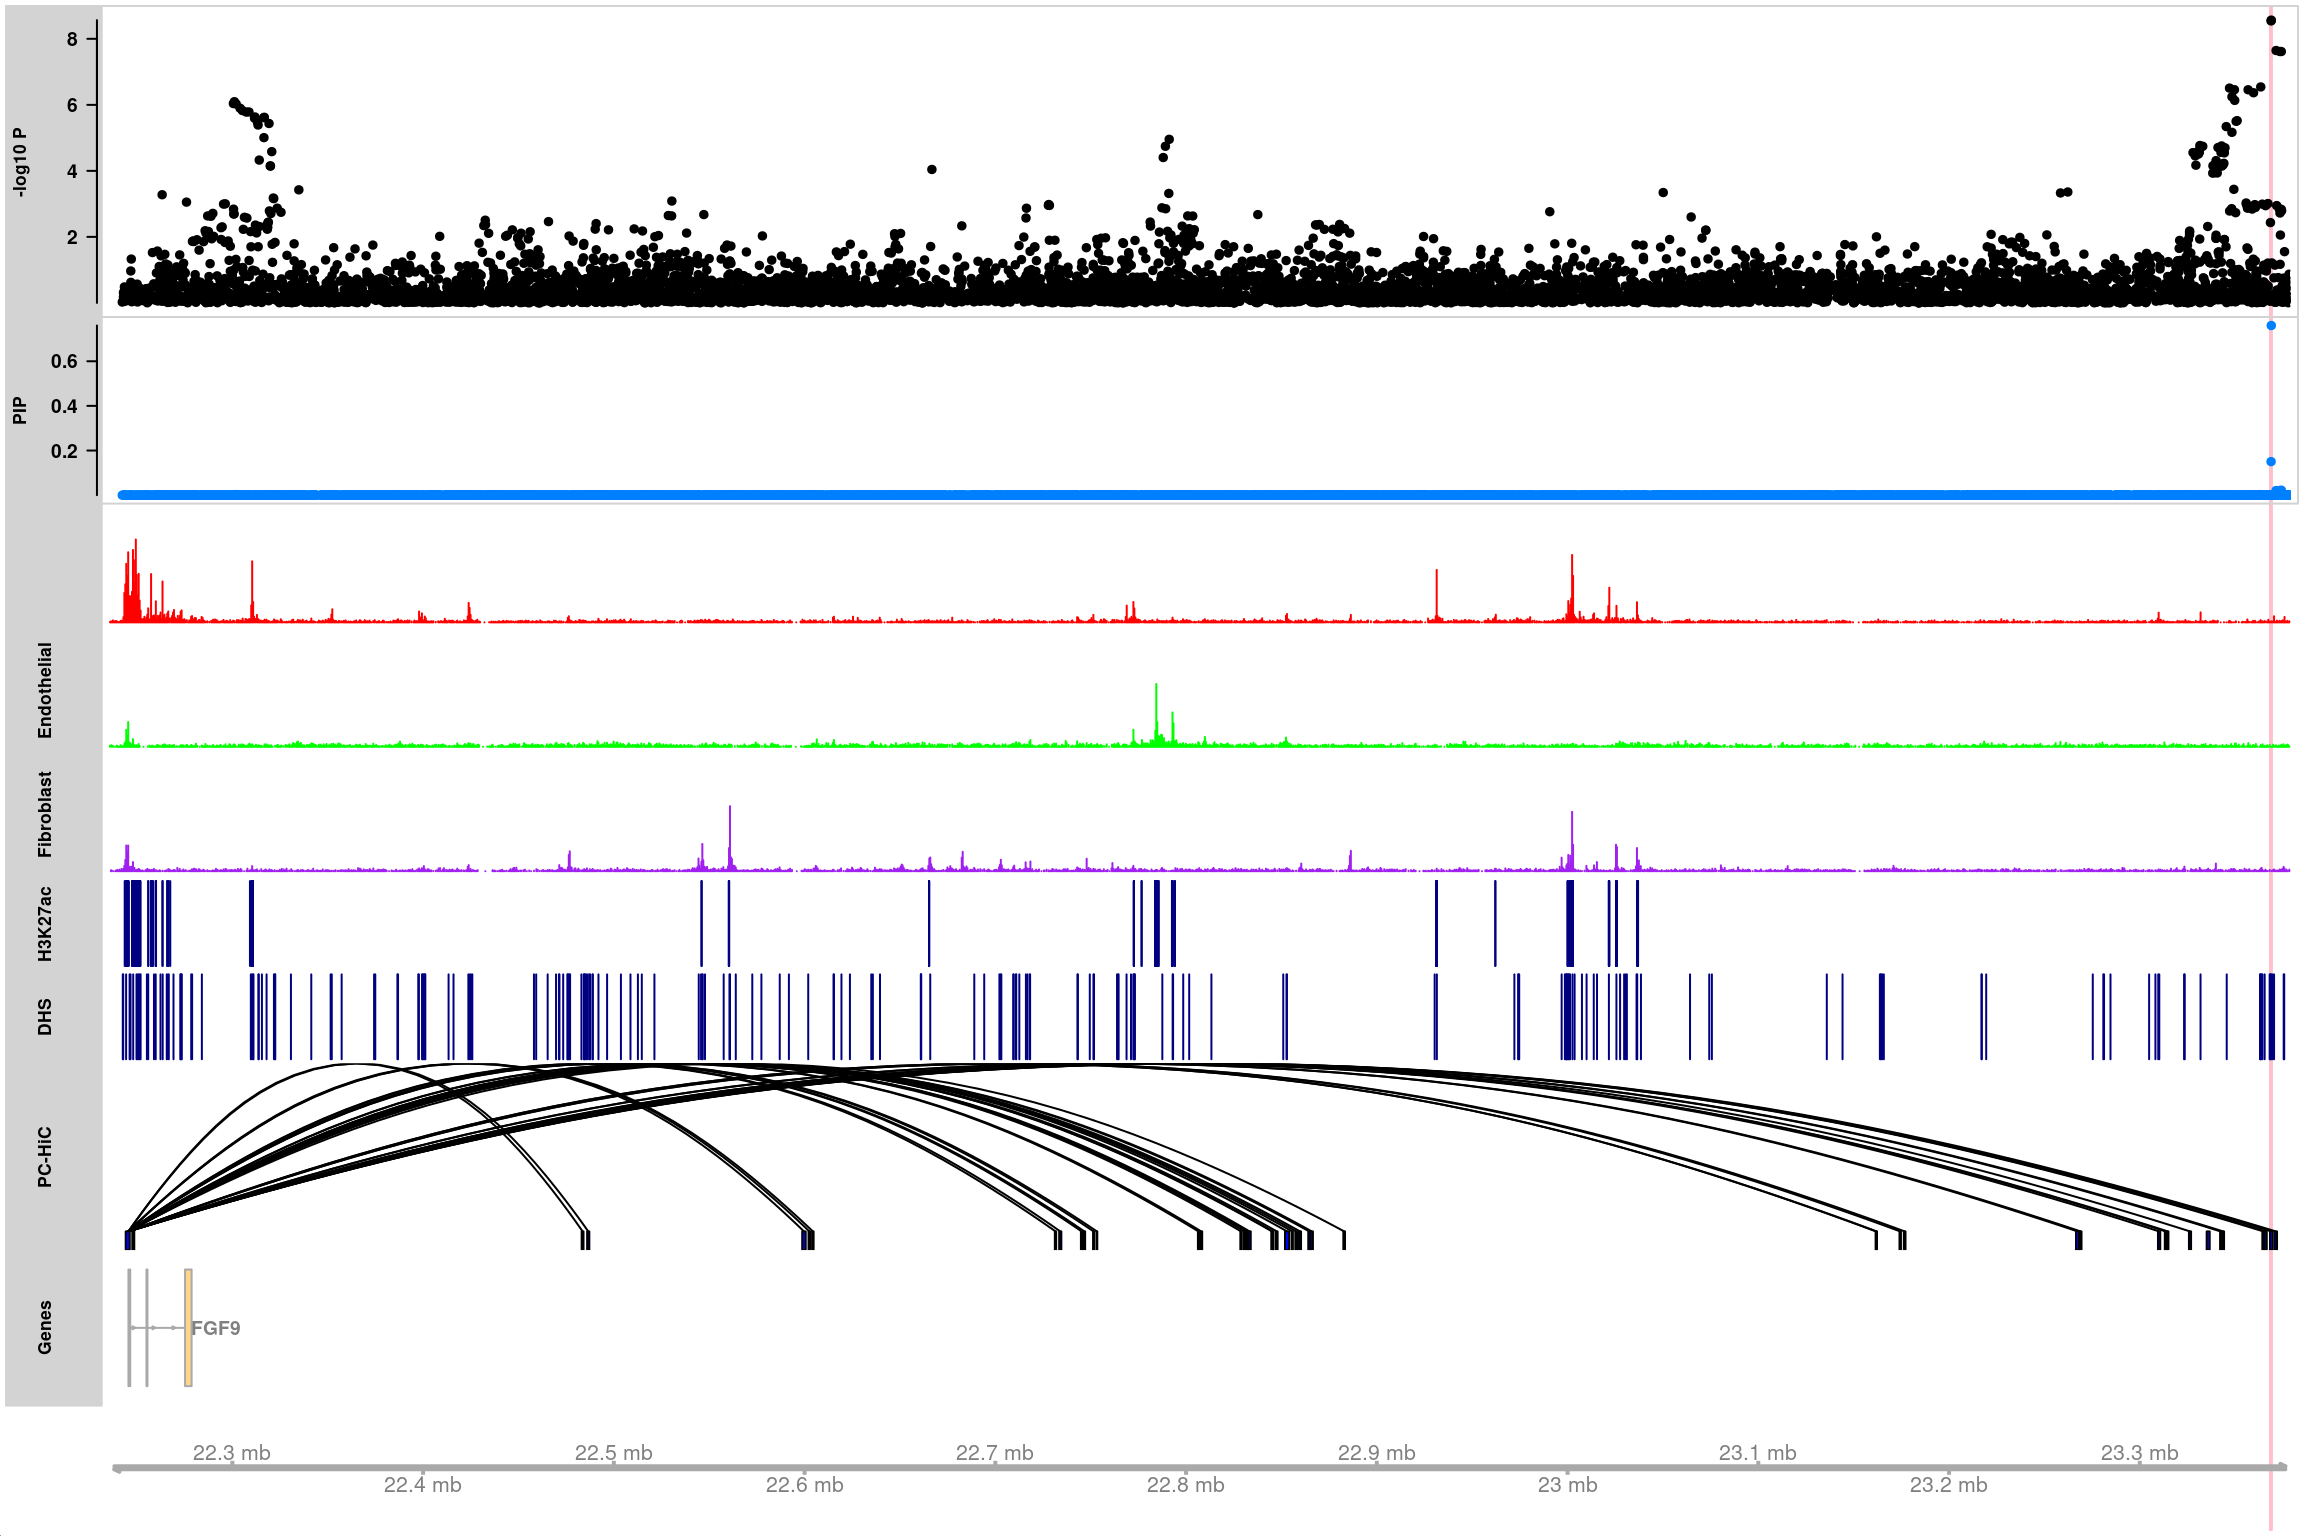
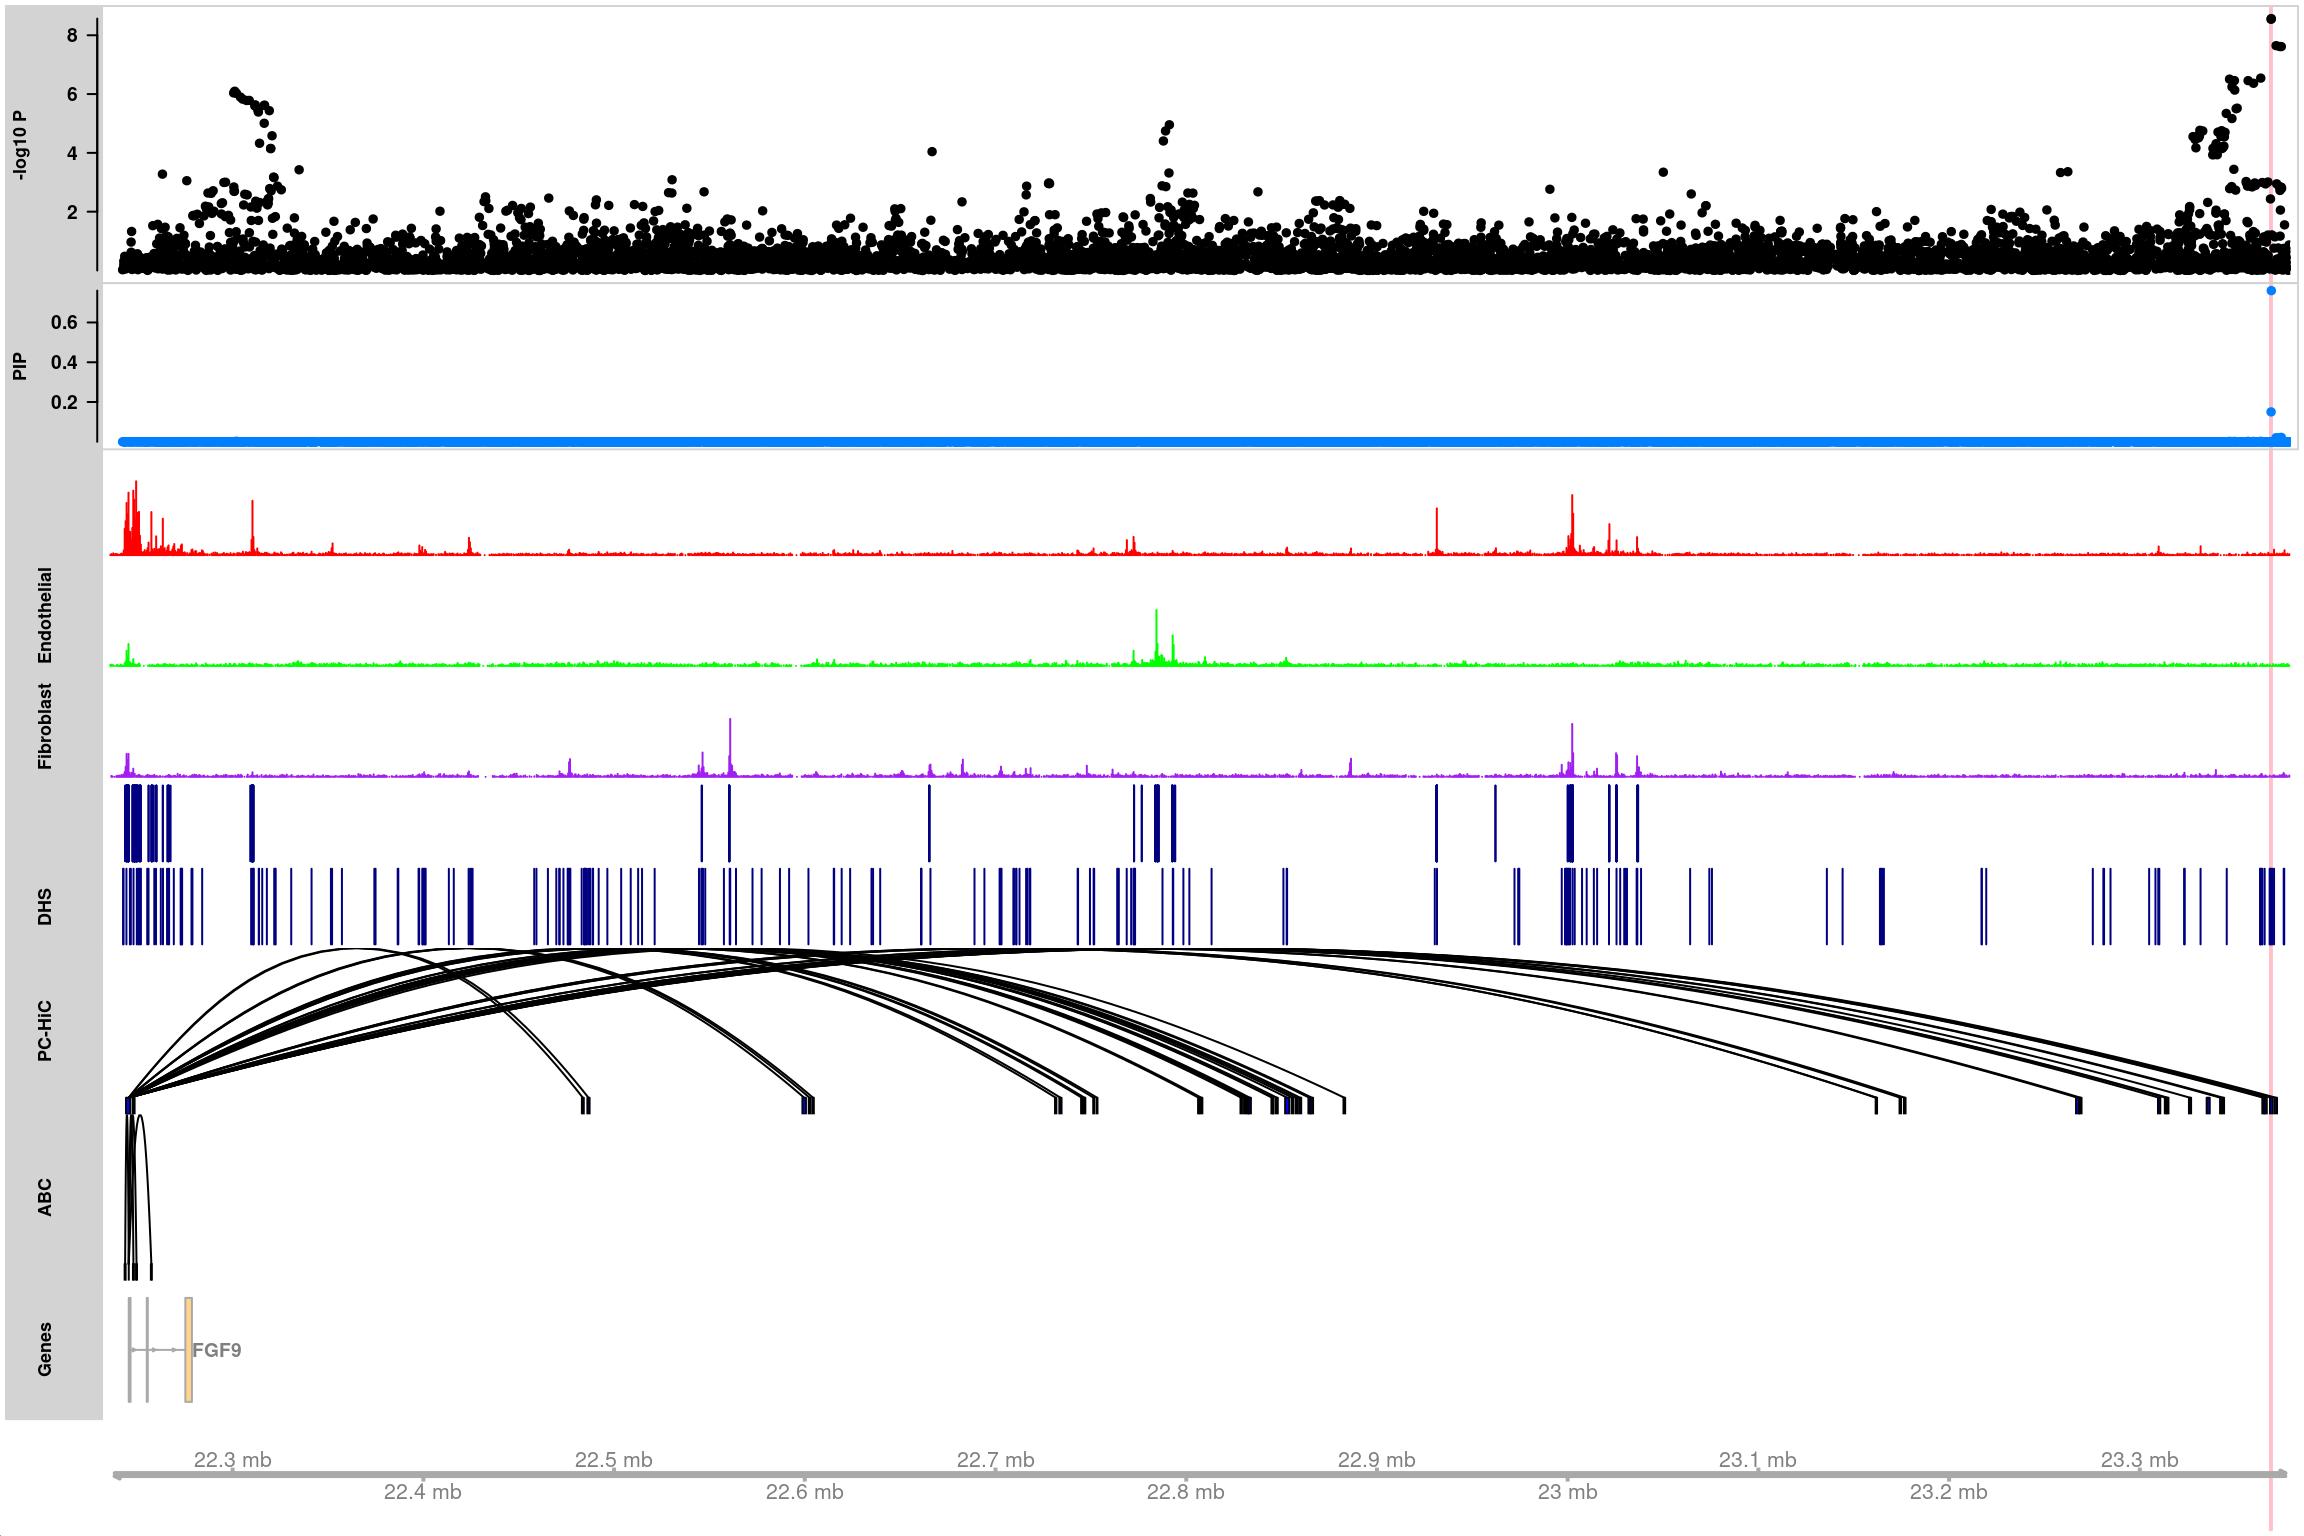
Build site.

diff --git a/docs/make_mapgen_trackplots.html b/docs/make_mapgen_trackplots.html
@@ -523,15 +523,15 @@ project makes it easier to run your code on other machines.</p>
 <div class="panel panel-default">
 <div class="panel-heading">
 <p class="panel-title">
-<a data-toggle="collapse" data-parent="#workflowr-checks" href="#strongRepositoryversionstrongahrefhttpsgithubcomkevinlkxanalysispipelinestree2b0f109d0555c92eb8adb643ebf5d38ed99f5d88targetblank2b0f109a">
+<a data-toggle="collapse" data-parent="#workflowr-checks" href="#strongRepositoryversionstrongahrefhttpsgithubcomkevinlkxanalysispipelinestreeadbc5ca0e412b3b281ca1e4d1467959c23294899targetblankadbc5caa">
 <span class="glyphicon glyphicon-ok text-success"
 aria-hidden="true"></span> <strong>Repository version:</strong>
-<a href="https://github.com/kevinlkx/analysis_pipelines/tree/2b0f109d0555c92eb8adb643ebf5d38ed99f5d88" target="_blank">2b0f109</a>
+<a href="https://github.com/kevinlkx/analysis_pipelines/tree/adbc5ca0e412b3b281ca1e4d1467959c23294899" target="_blank">adbc5ca</a>
 </a>
 </p>
 </div>
 <div
[2 lines of base64/hex data omitted]
 class="panel-collapse collapse">
 <div class="panel-body">
 <p>
@@ -541,7 +541,7 @@ reproducibility.
 </p>
 <p>
 The results in this page were generated with repository version
-<a href="https://github.com/kevinlkx/analysis_pipelines/tree/2b0f109d0555c92eb8adb643ebf5d38ed99f5d88" target="_blank">2b0f109</a>.
+<a href="https://github.com/kevinlkx/analysis_pipelines/tree/adbc5ca0e412b3b281ca1e4d1467959c23294899" target="_blank">adbc5ca</a>.
 See the <em>Past versions</em> tab to see a history of the changes made
 to the R Markdown and HTML files.
 </p>
@@ -615,6 +615,40 @@ Message
 </tr>
 </thead>
 <tbody>
+<tr>
+<td>
+Rmd
+</td>
+<td>
+<a href="https://github.com/kevinlkx/analysis_pipelines/blob/adbc5ca0e412b3b281ca1e4d1467959c23294899/analysis/make_mapgen_trackplots.Rmd" target="_blank">adbc5ca</a>
+</td>
+<td>
+kevinlkx
+</td>
+<td>
+2022-09-12
+</td>
+<td>
+added ABC data
+</td>
+</tr>
+<tr>
+<td>
+html
+</td>
+<td>
+<a href="https://rawcdn.githack.com/kevinlkx/analysis_pipelines/ff411beb527b6cb770e90dd71d472b35084d8b2c/docs/make_mapgen_trackplots.html" target="_blank">ff411be</a>
+</td>
+<td>
+kevinlkx
+</td>
+<td>
+2022-09-12
+</td>
+<td>
+Build site.
+</td>
+</tr>
 <tr>
 <td>
 Rmd
@@ -799,6 +833,11 @@ gene.annots &lt;- genomic.annots$genes</code></pre>
 <p>Load Promoter-capture HiC (PCHi-C) data from iPSC derived
 cardiomyocytes (CMs).</p>
 <pre class="r"><code>pcHiC.gr &lt;- readRDS(system.file(&quot;extdata&quot;, &quot;pcHiC.CM.gr.rds&quot;, package = &quot;mapgen&quot;))</code></pre>
+<p>Load ABC data</p>
+<pre class="r"><code>ABC &lt;- fread(file.path(data.dir, &quot;heart_ventricle-ENCODE_ABC.tsv.gz&quot;))
+ABC.gr &lt;- process_ABC(ABC, ABC.thresh = 0.015, full.element = TRUE)
+ABC.gr &lt;- ABC.gr[ABC.gr$gene_name %in% gene.annots$gene_name, ] # restrict to protein coding genes
+ABC.gr$score &lt;- ABC.gr$ABC.Score * 100</code></pre>
 <p>Load H3K27ac and DHS bed files</p>
 <pre class="r"><code>H3K27ac_peaks &lt;- rtracklayer::import(file.path(data.dir, &quot;H3K27ac_heart_concat.bed&quot;))
 DHS_peaks &lt;- rtracklayer::import(file.path(data.dir, &quot;FetalHeart_E083-DNase_hg19_cleaned_narrowPeak.bed.gz&quot;))</code></pre>
@@ -819,7 +858,10 @@ region &lt;- get_gene_region(gene.mapping.res, gene.of.interest, ext = 10000)</c
 <pre class="r"><code># Load the txdb object of the gene annotations
 txdb &lt;- AnnotationDbi::loadDb(&quot;/project2/xinhe/kevinluo/gene-level-finemapping/annot/gene_annotations/gencode.v19.annotation.gtf.sqlite&quot;)</code></pre>
 <pre><code>Loading required package: GenomicFeatures</code></pre>
-<pre class="r"><code>finemapping_annot_trackplot(finemapstats.gr, 
+<pre class="r"><code>peaks &lt;- list(&quot;H3K27ac&quot; = H3K27ac_peaks, &quot;DHS&quot; = DHS_peaks)
+HiC_loops &lt;- list(&quot;PC-HiC&quot; = pcHiC.gr, &quot;ABC&quot; = ABC.gr)
+
+finemapping_annot_trackplot(finemapstats.gr, 
                             region, 
                             gene.annots, 
                             genome = &quot;hg19&quot;, 
@@ -829,17 +871,19 @@ txdb &lt;- AnnotationDbi::loadDb(&quot;/project2/xinhe/kevinluo/gene-level-finem
                             countsdata = atac_data, 
                             data_colors = c(&quot;red&quot;, &quot;green&quot;, &quot;purple&quot;), 
                             data_ylim = c(0,0.8),
-                            peaks = list(&quot;H3K27ac&quot; = H3K27ac_peaks, &quot;DHS&quot; = DHS_peaks), 
-                            HiC_loops = list(&quot;PC-HiC&quot; = pcHiC.gr),
-                            highlight_snps = &quot;topSNP&quot;)</code></pre>
+                            peaks = peaks, 
+                            HiC_loops = HiC_loops,
+                            highlight_snps = &quot;topSNP&quot;,
+                            verbose = TRUE)</code></pre>
 <pre><code>Making trackplots ...
 6857 snps included.
 Adding Cardiomyocyte track...
 Adding Endothelial track...
 Adding Fibroblast track...
-Adding H3K27ac track... 
-Adding DHS track... 
+Adding H3K27ac track...
+Adding DHS track...
 Adding PC-HiC track...
+Adding ABC track...
 Making gene track object using gene annotations in txdb ...</code></pre>
 <pre><code>&#39;select()&#39; returned 1:1 mapping between keys and columns</code></pre>
 <pre><code>Highlight SNPs: rs9506925 </code></pre>
@@ -925,51 +969,52 @@ other attached packages:
 [29] data.table_1.14.2           workflowr_1.7.0            
 
 loaded via a namespace (and not attached):
-  [1] readxl_1.4.0             backports_1.4.1          Hmisc_4.7-1             
-  [4] BiocFileCache_2.4.0      igraph_1.3.4             lazyeval_0.2.2          
-  [7] splines_4.2.0            BiocParallel_1.30.3      digest_0.6.29           
- [10] foreach_1.5.2            ensembldb_2.20.2         htmltools_0.5.2         
- [13] fansi_1.0.3              checkmate_2.1.0          magrittr_2.0.3          
- [16] memoise_2.0.1            BSgenome_1.64.0          doParallel_1.0.17       
- [19] cluster_2.1.3            bigassertr_0.1.5         tzdb_0.3.0              
- [22] Biostrings_2.64.0        modelr_0.1.8             prettyunits_1.1.1       
- [25] jpeg_0.1-9               colorspace_2.0-3         blob_1.2.3              
- [28] rvest_1.0.2              rappdirs_0.3.3           haven_2.5.0             
- [31] xfun_0.30                callr_3.7.0              crayon_1.5.1            
- [34] RCurl_1.98-1.7           jsonlite_1.8.0           flock_0.7               
- [37] iterators_1.0.14         VariantAnnotation_1.42.1 survival_3.3-1          
- [40] glue_1.6.2               gtable_0.3.0             zlibbioc_1.42.0         
- [43] XVector_0.36.0           DelayedArray_0.22.0      scales_1.2.0            
- [46] rngtools_1.5.2           bigparallelr_0.3.2       DBI_1.1.3               
- [49] Rcpp_1.0.8.3             htmlTable_2.4.0          progress_1.2.2          
- [52] foreign_0.8-82           bit_4.0.4                Formula_1.2-4           
- [55] htmlwidgets_1.5.4        httr_1.4.3               RColorBrewer_1.1-3      
- [58] ellipsis_0.3.2           pkgconfig_2.0.3          XML_3.99-0.9            
- [61] nnet_7.3-17              sass_0.4.1               dbplyr_2.1.1            
- [64] deldir_1.0-6             utf8_1.2.2               tidyselect_1.1.2        
- [67] rlang_1.0.2              later_1.3.0              munsell_0.5.0           
- [70] cellranger_1.1.0         tools_4.2.0              cachem_1.0.6            
- [73] cli_3.3.0                generics_0.1.2           RSQLite_2.2.14          
- [76] broom_0.8.0              evaluate_0.15            fastmap_1.1.0           
- [79] yaml_2.3.5               processx_3.5.3           knitr_1.39              
- [82] bit64_4.0.5              fs_1.5.2                 AnnotationFilter_1.20.0 
- [85] KEGGREST_1.36.2          doRNG_1.8.2              whisker_0.4             
- [88] xml2_1.3.3               biomaRt_2.52.0           compiler_4.2.0          
- [91] rstudioapi_0.13          filelock_1.0.2           curl_4.3.2              
- [94] png_0.1-7                reprex_2.0.1             bslib_0.3.1             
- [97] stringi_1.7.6            highr_0.9                ps_1.7.0                
-[100] bigsparser_0.6.1         lattice_0.20-45          ProtGenerics_1.28.0     
-[103] Matrix_1.4-1             vctrs_0.4.1              pillar_1.7.0            
-[106] lifecycle_1.0.1          jquerylib_0.1.4          cowplot_1.1.1           
-[109] bitops_1.0-7             httpuv_1.6.5             R6_2.5.1                
-[112] BiocIO_1.6.0             latticeExtra_0.6-30      promises_1.2.0.1        
-[115] gridExtra_2.3            codetools_0.2-18         dichromat_2.0-0.1       
-[118] assertthat_0.2.1         rprojroot_2.0.3          rjson_0.2.21            
-[121] withr_2.5.0              GenomicAlignments_1.32.0 Rsamtools_2.12.0        
-[124] GenomeInfoDbData_1.2.8   parallel_4.2.0           hms_1.1.1               
-[127] rpart_4.1.16             rmarkdown_2.14           git2r_0.30.1            
-[130] biovizBase_1.44.0        getPass_0.2-2            lubridate_1.8.0         
-[133] base64enc_0.1-3          interp_1.1-3             restfulr_0.0.14         </code></pre>
+  [1] utf8_1.2.2               R.utils_2.11.0           tidyselect_1.1.2        
+  [4] RSQLite_2.2.14           htmlwidgets_1.5.4        BiocParallel_1.30.3     
+  [7] munsell_0.5.0            codetools_0.2-18         interp_1.1-3            
+ [10] withr_2.5.0              colorspace_2.0-3         filelock_1.0.2          
+ [13] highr_0.9                knitr_1.39               rstudioapi_0.13         
+ [16] git2r_0.30.1             GenomeInfoDbData_1.2.8   bit64_4.0.5             
+ [19] rprojroot_2.0.3          vctrs_0.4.1              generics_0.1.2          
+ [22] xfun_0.30                biovizBase_1.44.0        BiocFileCache_2.4.0     
+ [25] R6_2.5.1                 bigassertr_0.1.5         doParallel_1.0.17       
+ [28] bigsparser_0.6.1         AnnotationFilter_1.20.0  bitops_1.0-7            
+ [31] cachem_1.0.6             DelayedArray_0.22.0      assertthat_0.2.1        
+ [34] promises_1.2.0.1         BiocIO_1.6.0             scales_1.2.0            
+ [37] nnet_7.3-17              gtable_0.3.0             processx_3.5.3          
+ [40] ensembldb_2.20.2         rlang_1.0.2              flock_0.7               
+ [43] splines_4.2.0            lazyeval_0.2.2           dichromat_2.0-0.1       
+ [46] broom_0.8.0              checkmate_2.1.0          yaml_2.3.5              
+ [49] bigparallelr_0.3.2       modelr_0.1.8             backports_1.4.1         
+ [52] httpuv_1.6.5             Hmisc_4.7-1              tools_4.2.0             
+ [55] ellipsis_0.3.2           jquerylib_0.1.4          RColorBrewer_1.1-3      
+ [58] Rcpp_1.0.8.3             base64enc_0.1-3          progress_1.2.2          
+ [61] zlibbioc_1.42.0          RCurl_1.98-1.7           ps_1.7.0                
+ [64] prettyunits_1.1.1        rpart_4.1.16             deldir_1.0-6            
+ [67] cowplot_1.1.1            haven_2.5.0              cluster_2.1.3           
+ [70] fs_1.5.2                 magrittr_2.0.3           reprex_2.0.1            
+ [73] whisker_0.4              ProtGenerics_1.28.0      hms_1.1.1               
+ [76] evaluate_0.15            XML_3.99-0.9             jpeg_0.1-9              
+ [79] readxl_1.4.0             gridExtra_2.3            compiler_4.2.0          
+ [82] biomaRt_2.52.0           crayon_1.5.1             R.oo_1.24.0             
+ [85] htmltools_0.5.2          later_1.3.0              tzdb_0.3.0              
+ [88] Formula_1.2-4            lubridate_1.8.0          DBI_1.1.3               
+ [91] dbplyr_2.1.1             rappdirs_0.3.3           Matrix_1.4-1            
+ [94] cli_3.3.0                R.methodsS3_1.8.1        parallel_4.2.0          
+ [97] igraph_1.3.4             pkgconfig_2.0.3          getPass_0.2-2           
+[100] GenomicAlignments_1.32.0 foreign_0.8-82           xml2_1.3.3              
+[103] foreach_1.5.2            bslib_0.3.1              rngtools_1.5.2          
+[106] XVector_0.36.0           rvest_1.0.2              doRNG_1.8.2             
+[109] VariantAnnotation_1.42.1 callr_3.7.0              digest_0.6.29           
+[112] Biostrings_2.64.0        rmarkdown_2.14           cellranger_1.1.0        
+[115] htmlTable_2.4.0          restfulr_0.0.14          curl_4.3.2              
+[118] Rsamtools_2.12.0         rjson_0.2.21             lifecycle_1.0.1         
+[121] jsonlite_1.8.0           BSgenome_1.64.0          fansi_1.0.3             
+[124] pillar_1.7.0             lattice_0.20-45          KEGGREST_1.36.2         
+[127] fastmap_1.1.0            httr_1.4.3               survival_3.3-1          
+[130] glue_1.6.2               png_0.1-7                iterators_1.0.14        
+[133] bit_4.0.4                stringi_1.7.6            sass_0.4.1              
+[136] blob_1.2.3               latticeExtra_0.6-30      memoise_2.0.1           </code></pre>
 </div>
 </div>
 
